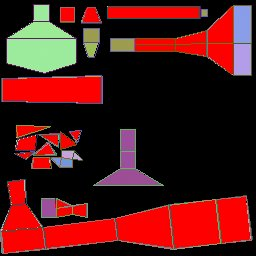
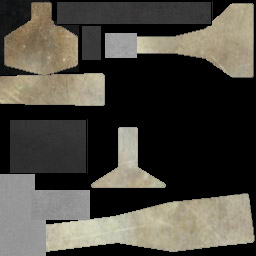
* merged 5204, 5219, 5221, 5222, 5223, 5224, 5244, 5249, 5250, 5284, 5285, 5296 & 5287 from trunk to 2.0 branch ** (boat textures by Yoshiboy, cl_parse/cl_actor fixes and experiments, skip null/empty particle names,  fix skill description when skill == MAX_S+KILL, sf bug 1616676, menu_bases fixes, d

diff --git a/src/client/cl_parse.c b/src/client/cl_parse.c
@@ -513,10 +513,12 @@ void CL_EntAppear( sizebuf_t *sb )
 
 	/* check if the ent is already visible */
 	le = LE_Get(entnum);
-	if ( !le )
+	if ( !le ) {
 		le = LE_Add(entnum);
-	else
+	} else {
 		Com_Printf("Entity appearing already visible... overwriting the old one\n");
+		le->inuse = qtrue;
+	}
 
 	le->type = type;
 	le->pos[0] = pos[0]; /* how to write this more elegantly? */
@@ -615,6 +617,7 @@ void CL_ActorAppear( sizebuf_t *sb )
 		newActor = qtrue;
 	} else {
 /*		Com_Printf( "Actor appearing already visible... overwriting the old one\n" ); */
+		le->inuse = qtrue;
 		newActor = qfalse;
 	}
 
@@ -742,13 +745,17 @@ void CL_ActorStateChange( sizebuf_t *sb )
 		 (!(state & STATE_CROUCHED) && le->state & STATE_CROUCHED) )
 		CL_SetLastMoving(le);
 
-	le->state = state;
-	le->think = LET_StartIdle;
-
 	/* killed by the server: no animation is played, etc. */
-	if (state & STATE_DEAD) {
+	if (state & STATE_DEAD && !(le->state & STATE_DEAD)) {
+		le->state = state;
+		FLOOR(le) = NULL;
+		le->think = NULL;
 		VectorCopy(player_dead_maxs, le->maxs);
 		CL_RemoveActorFromTeamList(le);
+		CL_ConditionalMoveCalc(&clMap, selActor, MAX_ROUTE, fb_list, fb_length);
+	} else {
+		le->state = state;
+		le->think = LET_StartIdle;
 	}
 
 	/* state change may have affected move length */
@@ -819,33 +826,41 @@ void CL_PlaceItem( le_t *le )
  */
 void CL_InvAdd( sizebuf_t *sb )
 {
-	int		number;
+	int		number, nr, i;
+	int 	container, x, y;
 	le_t	*le;
+	item_t 	item;
 
 	number = MSG_ReadShort( sb );
 
-	le = LE_Get( number );
-	if ( !le ) {
-		Com_Printf( "InvAdd message ignored... LE not found\n" );
-		return;
-	}
+	for (i = 0, le = LEs; i < numLEs; i++, le++)
+		if (le->entnum == number)
+           	break;
 
-	{
-		item_t item;
-		int container, x, y;
-		int nr = MSG_ReadShort(sb) / 6;
-
+	if (le->entnum != number) {
+		nr = MSG_ReadShort(sb) / 6;
+		Com_Printf( "InvAdd: message ignored... LE %i not found\n", number );
 		for (; nr-- > 0;) {
-
 			CL_ReceiveItem(sb, &item, &container, &x, &y);
-
-			Com_AddToInventory(&le->i, item, container, x, y);
-
-			if ( container == csi.idRight )
-				le->right = item.t;
-			else if ( container == csi.idLeft )
-				le->left = item.t;
+			Com_Printf("InvAdd: ignoring:\n");
+			Com_PrintItemDescription(item.t);
 		}
+		return;
+	} 
+	if (!le->inuse)
+		Com_Printf( "InvAdd: warning... LE found but not in-use\n" );
+
+	nr = MSG_ReadShort(sb) / 6;
+
+	for (; nr-- > 0;) {
+		CL_ReceiveItem(sb, &item, &container, &x, &y);
+
+		Com_AddToInventory(&le->i, item, container, x, y);
+
+		if ( container == csi.idRight )
+			le->right = item.t;
+		else if ( container == csi.idLeft )
+			le->left = item.t;
 	}
 
 	switch ( le->type ) {

diff --git a/src/client/cl_actor.c b/src/client/cl_actor.c
@@ -91,6 +91,7 @@ static char *CL_GetSkillString(const int skill)
 	case 8:
 		return _("Superhuman");
 	case 9:
+	case 10:
 		return _("Godlike");
 	default:
 		Com_Printf("CL_GetSkillString: Unknown skill: %i (index: %i)\n", skill, skill*10/MAX_SKILL);
@@ -779,7 +780,8 @@ qboolean CL_ActorSelect(le_t * le)
 	int i;
 
 	/* test team */
-	if (!le || le->team != cls.team || (le->state & STATE_DEAD))
+	if (!le || le->team != cls.team || 
+		(le->state & STATE_DEAD) || !le->inuse)
 		return qfalse;
 
 	/* select him */
@@ -880,7 +882,7 @@ qboolean CL_ActorSelectNext()
 		if (CL_ActorSelectList(i))
 			return qtrue;
 	}
-	return qtrue;
+	return qfalse;
 }
 
 
@@ -1469,9 +1471,12 @@ void CL_ActorDie(sizebuf_t * sb)
 	MSG_ReadFormat(sb, ev_format[EV_ACTOR_DIE], &number, &state);
 
 	/* get le */
-	le = LE_Get(number);
-	if ( !le ) { /* this will usually happen if CL_EntPerish has been called on the le */
-		Com_DPrintf("CL_ActorDie: Can't kill, LE doesn't exist or is hidden from client\n");
+	for (i = 0, le = LEs; i < numLEs; i++, le++)
+		if (le->entnum == number)
+			break;
+	
+	if (le->entnum != number) {
+		Com_DPrintf("CL_ActorDie: Can't kill, LE doesn't exist\n");
 		return;
 	} else if ( le->type != ET_UGV && le->type != ET_ACTOR ) {
 		Com_Printf("CL_ActorDie: Can't kill, LE is not an actor\n");
@@ -1479,6 +1484,8 @@ void CL_ActorDie(sizebuf_t * sb)
 	} else if (le->state & STATE_DEAD) {
 		Com_Printf("CL_ActorDie: Can't kill, actor already dead\n");
 		return;
+	} else if (!le->inuse) { /* this will usually happen if CL_EntPerish has been called on the le */
+		Com_Printf("CL_ActorDie: Warning - actor not in-use\n");
 	}
 
 	/* count spotted aliens */
@@ -1702,7 +1709,7 @@ void CL_ResetActorMoveLength(void) {
 }
 
 /**
- * @brief Selects the actor on the battlescape.
+ * @brief Battlescape cursor positioning.
  * @note Sets global var mouseActor to current selected le
  * @sa CL_ParseInput
  */

diff --git a/src/game/q_shared.c b/src/game/q_shared.c
@@ -3565,23 +3565,33 @@ char *Com_ValueToStr(void *base, int type, int ofs)
 }
 
 /**
+ * @brief Prints a description of an object
+ * @param[in] index of object in CSI
+ */
+void Com_PrintItemDescription(int i)
+{
+	objDef_t *ods_temp;
+
+	ods_temp = &CSI->ods[i];
+	Com_Printf("Item: %s\n", ods_temp->kurz);
+	Com_Printf("... name          -> %s\n", ods_temp->name);
+	Com_Printf("... type          -> %s\n", ods_temp->type);
+	Com_Printf("... category      -> %i\n", ods_temp->category);
+	Com_Printf("... weapon        -> %i\n", ods_temp->weapon);
+	Com_Printf("... holdtwohanded -> %i\n", ods_temp->holdtwohanded);
+	Com_Printf("... firetwohanded -> %i\n", ods_temp->firetwohanded);
+	Com_Printf("... twohanded     -> %i\n", ods_temp->holdtwohanded);
+	Com_Printf("... thrown        -> %i\n", ods_temp->thrown);
+}
+
+
+/**
  * @brief Lists all object definitions
  */
 void Com_InventoryList_f(void)
 {
 	int i;
-	objDef_t *ods_temp;
 
-	for (i = 0; i < CSI->numODs; i++) {
-		ods_temp = &CSI->ods[i];
-		Com_Printf("Item: %s\n", ods_temp->kurz);
-		Com_Printf("... name          -> %s\n", ods_temp->name);
-		Com_Printf("... type          -> %s\n", ods_temp->type);
-		Com_Printf("... category      -> %i\n", ods_temp->category);
-		Com_Printf("... weapon        -> %i\n", ods_temp->weapon);
-		Com_Printf("... holdtwohanded -> %i\n", ods_temp->holdtwohanded);
-		Com_Printf("... firetwohanded -> %i\n", ods_temp->firetwohanded);
-		Com_Printf("... twohanded     -> %i\n", ods_temp->holdtwohanded);
-		Com_Printf("... thrown        -> %i\n", ods_temp->thrown);
-	}
+	for (i = 0; i < CSI->numODs; i++)
+		Com_PrintItemDescription(i);
 }

diff --git a/src/client/cl_team.c b/src/client/cl_team.c
@@ -667,12 +667,14 @@ static void CL_SelectCmd(void)
 	}
 
 	if (!Q_strncmp(command, "equip", 5)) {
+		if (!baseCurrent || baseCurrent->aircraftCurrent < 0)
+			return;
 		if (baseCurrent->teamNum[baseCurrent->aircraftCurrent] <= 0) {
 			if (!ccs.singleplayer)
 				Cbuf_AddText("mn_pop;mn_push mp_team;");
 			return;
 		}
-		if (!baseCurrent || baseCurrent->aircraftCurrent < 0 || num >= baseCurrent->teamNum[baseCurrent->aircraftCurrent])
+		if (num >= baseCurrent->teamNum[baseCurrent->aircraftCurrent])
 			return;
 		if (menuInventory && menuInventory != baseCurrent->curTeam[num]->inv) {
 			baseCurrent->curTeam[num]->inv->c[csi.idEquip] = menuInventory->c[csi.idEquip];

diff --git a/src/ref_gl/gl_image.c b/src/ref_gl/gl_image.c
@@ -1821,7 +1821,7 @@ image_t *GL_LoadPic(const char *name, byte * pic, int width, int height, imagety
 			image->has_alpha = GL_Upload8(pic, width, height, (image->type != it_pic), image->type, image);
 		else
 			image->has_alpha = GL_Upload32((unsigned *) pic, width, height,
-										   (image->type != it_pic && image->type != it_wrappic), image->type == it_pic, image->type, image);
+										   (image->type != it_pic), image->type == it_pic, image->type, image);
 		image->upload_width = upload_width;	/* after power of 2 and scales */
 		image->upload_height = upload_height;
 		image->paletted = qfalse;

diff --git a/src/client/cl_produce.c b/src/client/cl_produce.c
@@ -236,6 +236,21 @@ static void PR_ProductionList (void)
 }
 
 /**
+ * @brief Returns true if the current base is able to produce items
+ */
+qboolean PR_ProductionAllowed(void) {
+	if (baseCurrent->baseStatus != BASE_UNDER_ATTACK &&
+		B_GetNumberOfBuildingsInBaseByType(baseCurrent->idx, B_WORKSHOP) > 0 &&
+		E_CountHired(baseCurrent, EMPL_WORKER) > 0 ) {
+		Cbuf_AddText("set_prod_enabled;");
+		return qtrue;
+	} else {
+		Cbuf_AddText("set_prod_disabled;");
+		return qfalse;
+	}
+}
+
+/**
  * @brief Sets the production array to -1
  */
 void PR_ProductionInit(void)

diff --git a/src/client/cl_basemanagement.c b/src/client/cl_basemanagement.c
@@ -1338,8 +1338,15 @@ void B_SelectBase(void)
 		Cbuf_ExecuteText(EXEC_NOW, "set_base_aircraft");
 
 	Cvar_SetValue("mn_base_status_id", baseCurrent->baseStatus);
+	Cvar_SetValue("mn_base_prod_allowed", PR_ProductionAllowed());
 	Cvar_SetValue("mn_base_num_aircraft", baseCurrent->numAircraftInBase);
 	Cvar_SetValue("mn_base_id", baseCurrent->idx);
+	Cvar_SetValue("mn_numbases", gd.numBases);
+	if (gd.numBases > 1) {
+		Cbuf_AddText("set_base_transfer;");
+	} else {
+		Cbuf_AddText("set_base_no_transfer;");
+	}
 	Cvar_Set("mn_base_title", baseCurrent->name);
 }
 

diff --git a/src/game/g_client.c b/src/game/g_client.c
@@ -222,13 +222,17 @@ void G_SendInventory(int player_mask, edict_t * ent)
 	if (!player_mask)
 		return;
 
-	gi.AddEvent(player_mask, EV_INV_ADD);
-
-	gi.WriteShort(ent->number);
-
 	for (j = 0; j < gi.csi->numIDs; j++)
 		for (ic = ent->i.c[j]; ic; ic = ic->next)
 			nr++;
+
+	/* return if no inventory items to send */
+	if (nr == 0)
+		return;
+
+	gi.AddEvent(player_mask, EV_INV_ADD);
+
+	gi.WriteShort(ent->number);
 
 	/* size of inventory */
 	gi.WriteShort(nr*6);

diff --git a/src/client/cl_particle.c b/src/client/cl_particle.c
@@ -547,6 +547,9 @@ ptl_t *CL_ParticleSpawn(char *name, int levelFlags, vec3_t s, vec3_t v, vec3_t a
 	ptl_t *p;
 	int i;
 
+	if (!name || strlen(name) <= 0)
+		return NULL;
+
 	/* find the particle definition */
 	for (i = 0; i < numPtlDefs; i++)
 		if (!Q_strncmp(name, ptlDef[i].name, MAX_VAR))

diff --git a/src/game/q_shared.h b/src/game/q_shared.h
@@ -1211,6 +1211,7 @@ typedef enum {
 #define CS_GENERAL			(CS_PLAYERSKINS+MAX_CLIENTS)
 #define	MAX_CONFIGSTRINGS	(CS_GENERAL+MAX_GENERAL)
 
+void Com_PrintItemDescription(int i);
 void Com_InventoryList_f(void);
 
 /* g_spawn.c */

diff --git a/src/client/cl_produce.h b/src/client/cl_produce.h
@@ -42,5 +42,6 @@ typedef struct production_s
 void PR_ResetProduction(void);
 void PR_ProductionRun(void);
 void PR_ProductionInit(void);
+qboolean PR_ProductionAllowed(void);
 
 #endif /* CLIENT_CL_PROOUCE */
